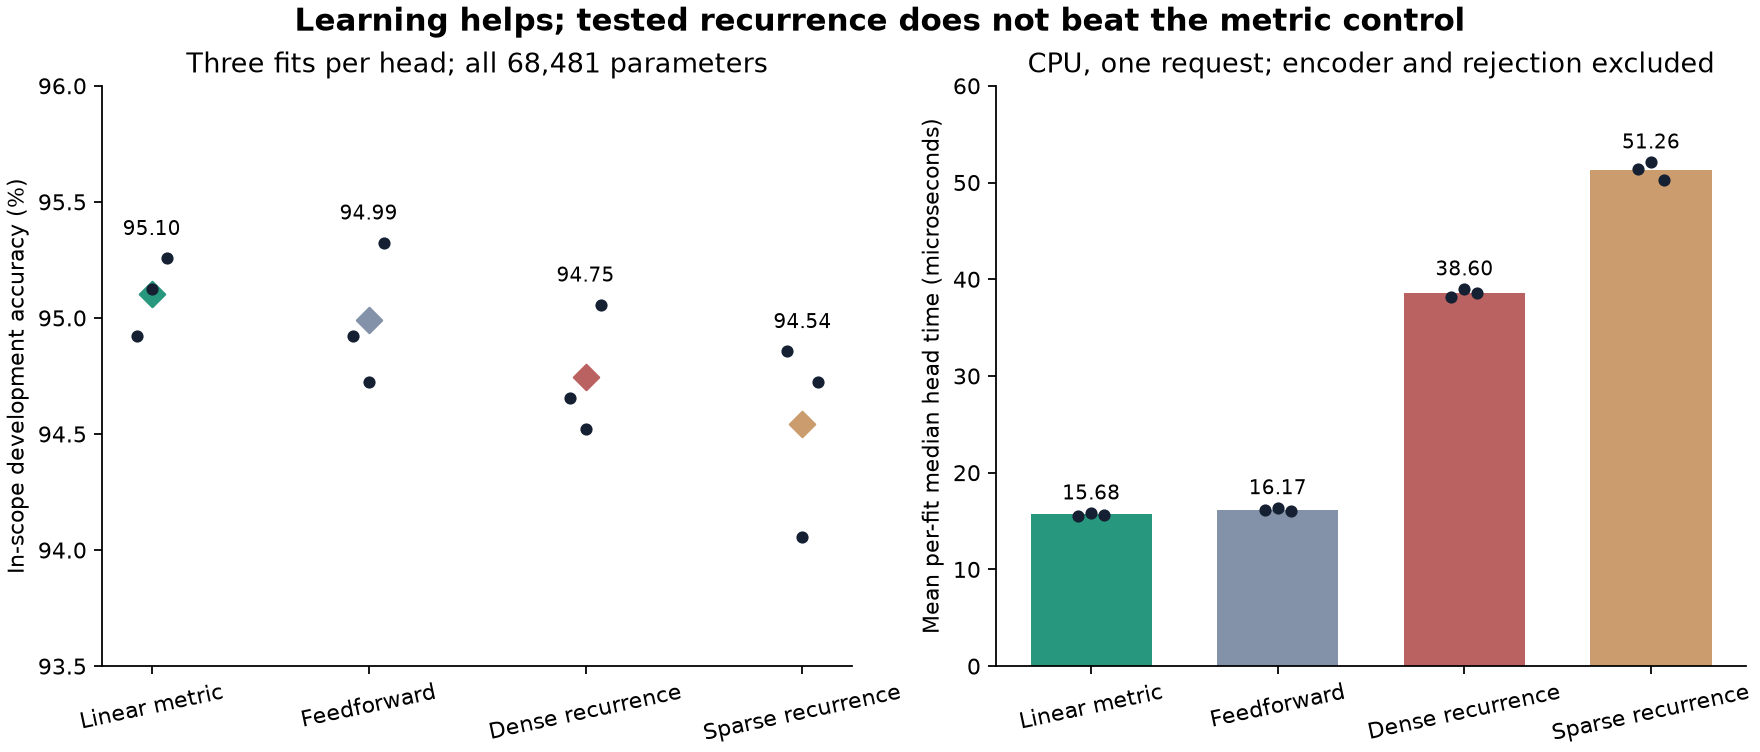
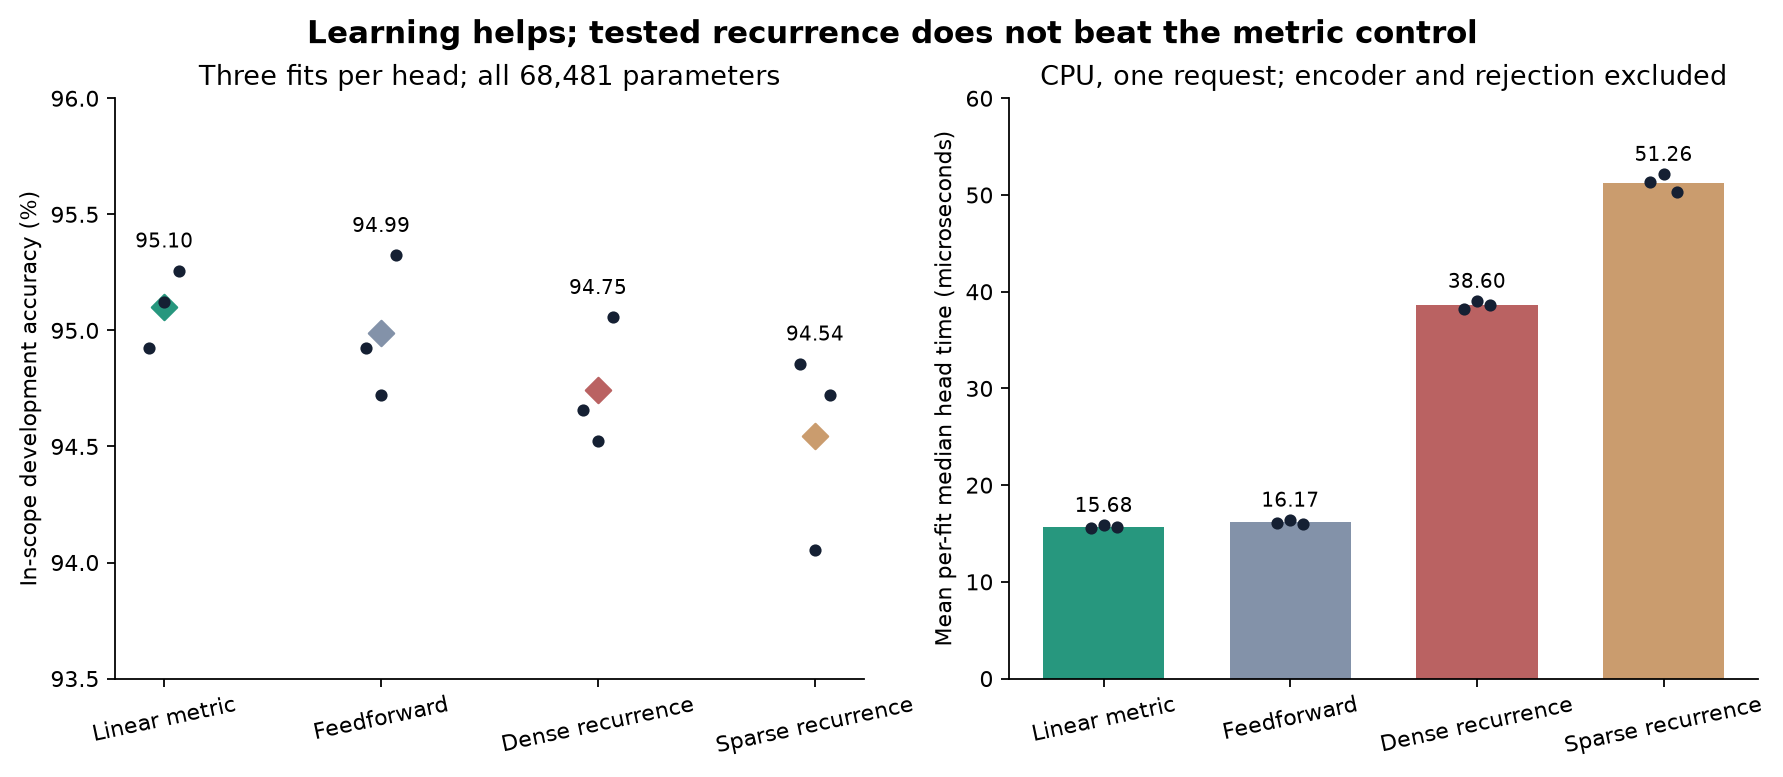
Keep complete chart title visible in exported figure

diff --git a/scripts/publish_learned_associative.py b/scripts/publish_learned_associative.py
@@ -50,7 +50,7 @@ def main():
     axes[0].set(ylim=(93.5, 96), ylabel='In-scope development accuracy (%)', title='Three fits per head; all 68,481 parameters')
     axes[1].set(ylim=(0, 60), ylabel='Mean per-fit median head time (microseconds)', title='CPU, one request; encoder and rejection excluded')
     fig.suptitle('Learning helps; tested recurrence does not beat the metric control', fontsize=14, fontweight='bold')
-    fig.savefig(args.out/'development.png', dpi=160)
+    fig.savefig(args.out/'development.png', dpi=160, bbox_inches='tight', pad_inches=.12)
     plt.close(fig)
 
 
